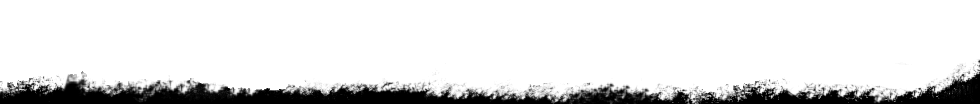
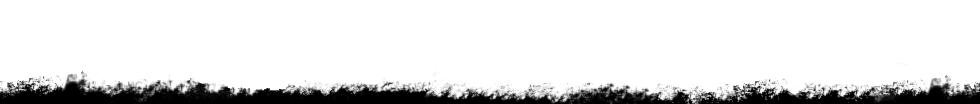
border added

Changed region(s): [[0.8878, 0.6058, 1.0, 0.9808]]

diff --git a/peso-game/peso-website/src/components/UI/BorderScreen/BorderScreen.tsx b/peso-game/peso-website/src/components/UI/BorderScreen/BorderScreen.tsx
@@ -1,9 +1,9 @@
 const BorderScreen = () => {
   return (
-    <ul className=" relative w-full h-screen pointer-events-none">
-      <li className=" absolute top-0 left-0 w-full h-[104px] bg-border-main-top bg-cover bg-no-repeat"></li>
+    <ul className=" relative w-screen h-screen pointer-events-none z-50">
+      <li className=" absolute top-0 left-0 w-screen h-[104px] bg-border-main-top bg-contain "></li>
       <li className=" absolute top-0 left-0 w-[104px] h-screen bg-border-main-left bg-cover  bg-no-repeat"></li>
-      <li className=" absolute top-0 right-0 w-[104px] h-screen bg-border-main-right bg-cover bg-no-repeat"></li>
+      <li className=" absolute top-0 right-0 w-[104px] mr-4 h-screen bg-border-main-right bg-cover bg-no-repeat"></li>
       <li className=" absolute bottom-0 left-0 w-full h-[104px] bg-border-main-bottom bg-contain"></li>
     </ul>
   );

diff --git a/peso-game/peso-website/src/app/[lang]/layout.tsx b/peso-game/peso-website/src/app/[lang]/layout.tsx
@@ -4,6 +4,7 @@ import { Roboto_Condensed } from "next/font/google";
 import { getDictionary } from "./dictionaries";
 import Header from "@/components/Header/Header";
 import Footer from "@/components/Footer/Footer";
+import BorderScreen from "@/components/UI/BorderScreen/BorderScreen";
 
 const robotoCondensed = Roboto_Condensed({
   subsets: ["latin"],
@@ -29,10 +30,13 @@ export default async function RootLayout({
   return (
     <html lang={lang}>
       <head />
-      <body className={robotoCondensed.className}>
+      <body className={`${robotoCondensed.className} relative  `}>
         <Header lang={lang} textTr={dict.main} />
         {children}
         <Footer lang={lang} />
+        <div className=" fixed top-0 left-0 w-screen h-screen pointer-events-none z-50">
+          <BorderScreen />
+        </div>
       </body>
     </html>
   );

diff --git a/peso-game/peso-website/src/components/Header/NavBar/NavBar.tsx b/peso-game/peso-website/src/components/Header/NavBar/NavBar.tsx
@@ -62,12 +62,14 @@ const NavBar: FC<LngTextFCComponentsProps> = ({ textTr, lang }) => {
         <div className=" hidden lg:flex h-full">
           <NavSection lang={lang} setIsOpen={setIsOpen} textTr={textTr} />
           <div className=" flex items-center">
-            <NavItem
-              text={textTr.headerLogIn}
-              setIsOpen={setIsOpen}
-              href={`/${lang}/signin`}
-              pathName={pathName}
-            />
+            <div className=" mr-5 h-full">
+              <NavItem
+                text={textTr.headerLogIn}
+                setIsOpen={setIsOpen}
+                href={`/${lang}/signin`}
+                pathName={pathName}
+              />
+            </div>
             <ButtonMain text={textTr.headerPlayNow} onClick={() => {}} />
           </div>
         </div>

diff --git a/peso-game/peso-website/src/components/About/About.tsx b/peso-game/peso-website/src/components/About/About.tsx
@@ -14,8 +14,8 @@ export const AboutComponent: FC<LanguageFCComponentsProps> = async ({
 }) => {
   const textAccentFont = myFont.className;
   return (
-    <div className="layout pt-20">
-      <ul className="md:flex md:flex-wrap gap-4 justify-center">
+    <div className="layout pb-10">
+      <ul className="md:flex md:flex-wrap gap-4 justify-center pt-10 bg-accent-background">
         {dataTeam.map(({ id, nameEn, nameUa, avatar, linkedin, github }) => (
           <li key={id} className="pb-8 last:pb-14">
             <div className="relative group">

diff --git a/peso-game/peso-website/src/components/News/News.tsx b/peso-game/peso-website/src/components/News/News.tsx
@@ -12,8 +12,8 @@ const myFont = localFont({
 const News: FC<LanguageFCComponentsProps> = async ({ lang }) => {
   const textAccentFont = myFont.className;
   return (
-    <div className="layout pt-20">
-      <ul>
+    <div className="layout  pb-10 ">
+      <ul className=" p-5 pt-10 bg bg-accent-background">
         {dataNews.map(({ id, nameEn, nameUa, textEn, textUa, img }) => (
           <li key={id} className="pb-8 last:pb-14">
             <h2

diff --git a/peso-game/peso-website/src/components/WikiPage/WikiComponent.tsx b/peso-game/peso-website/src/components/WikiPage/WikiComponent.tsx
@@ -33,8 +33,8 @@ export const WikiComponent: FC<LanguageShipComponentsProps> = ({
   //   fetchData();
   // }, []);
   return (
-    <div className="pt-20 layout">
-      <ul className="md:flex md:flex-wrap gap-4 justify-center">
+    <div className=" layout pb-10">
+      <ul className="md:flex md:flex-wrap gap-4 justify-center bg-accent-background pt-5">
         {dataShip.map(({ id, img, nameEn, nameUa }) => (
           <li
             key={id}

diff --git a/peso-game/peso-website/src/components/SignInForm/SignInForm.tsx b/peso-game/peso-website/src/components/SignInForm/SignInForm.tsx
@@ -30,7 +30,7 @@ const myFont = localFont({
 
 const SignInForm: FC<SignInProps> = ({ textTr, lang }) => {
   return (
-    <div className="layout">
+    <div className="layout pb-10 ">
       <div className="bg-accent-background">
         <Formik
           initialValues={initialValues}

diff --git a/peso-game/peso-website/src/components/SignUpForm/SignUpForm.tsx b/peso-game/peso-website/src/components/SignUpForm/SignUpForm.tsx
@@ -57,7 +57,7 @@ const SignUpForm: FC<SignUpForm> = ({ textTr, lang }) => {
   };
 
   return (
-    <div className="layout">
+    <div className="layout pb-10">
       <div className="bg-accent-background">
         <Formik
           initialValues={initialValues}
